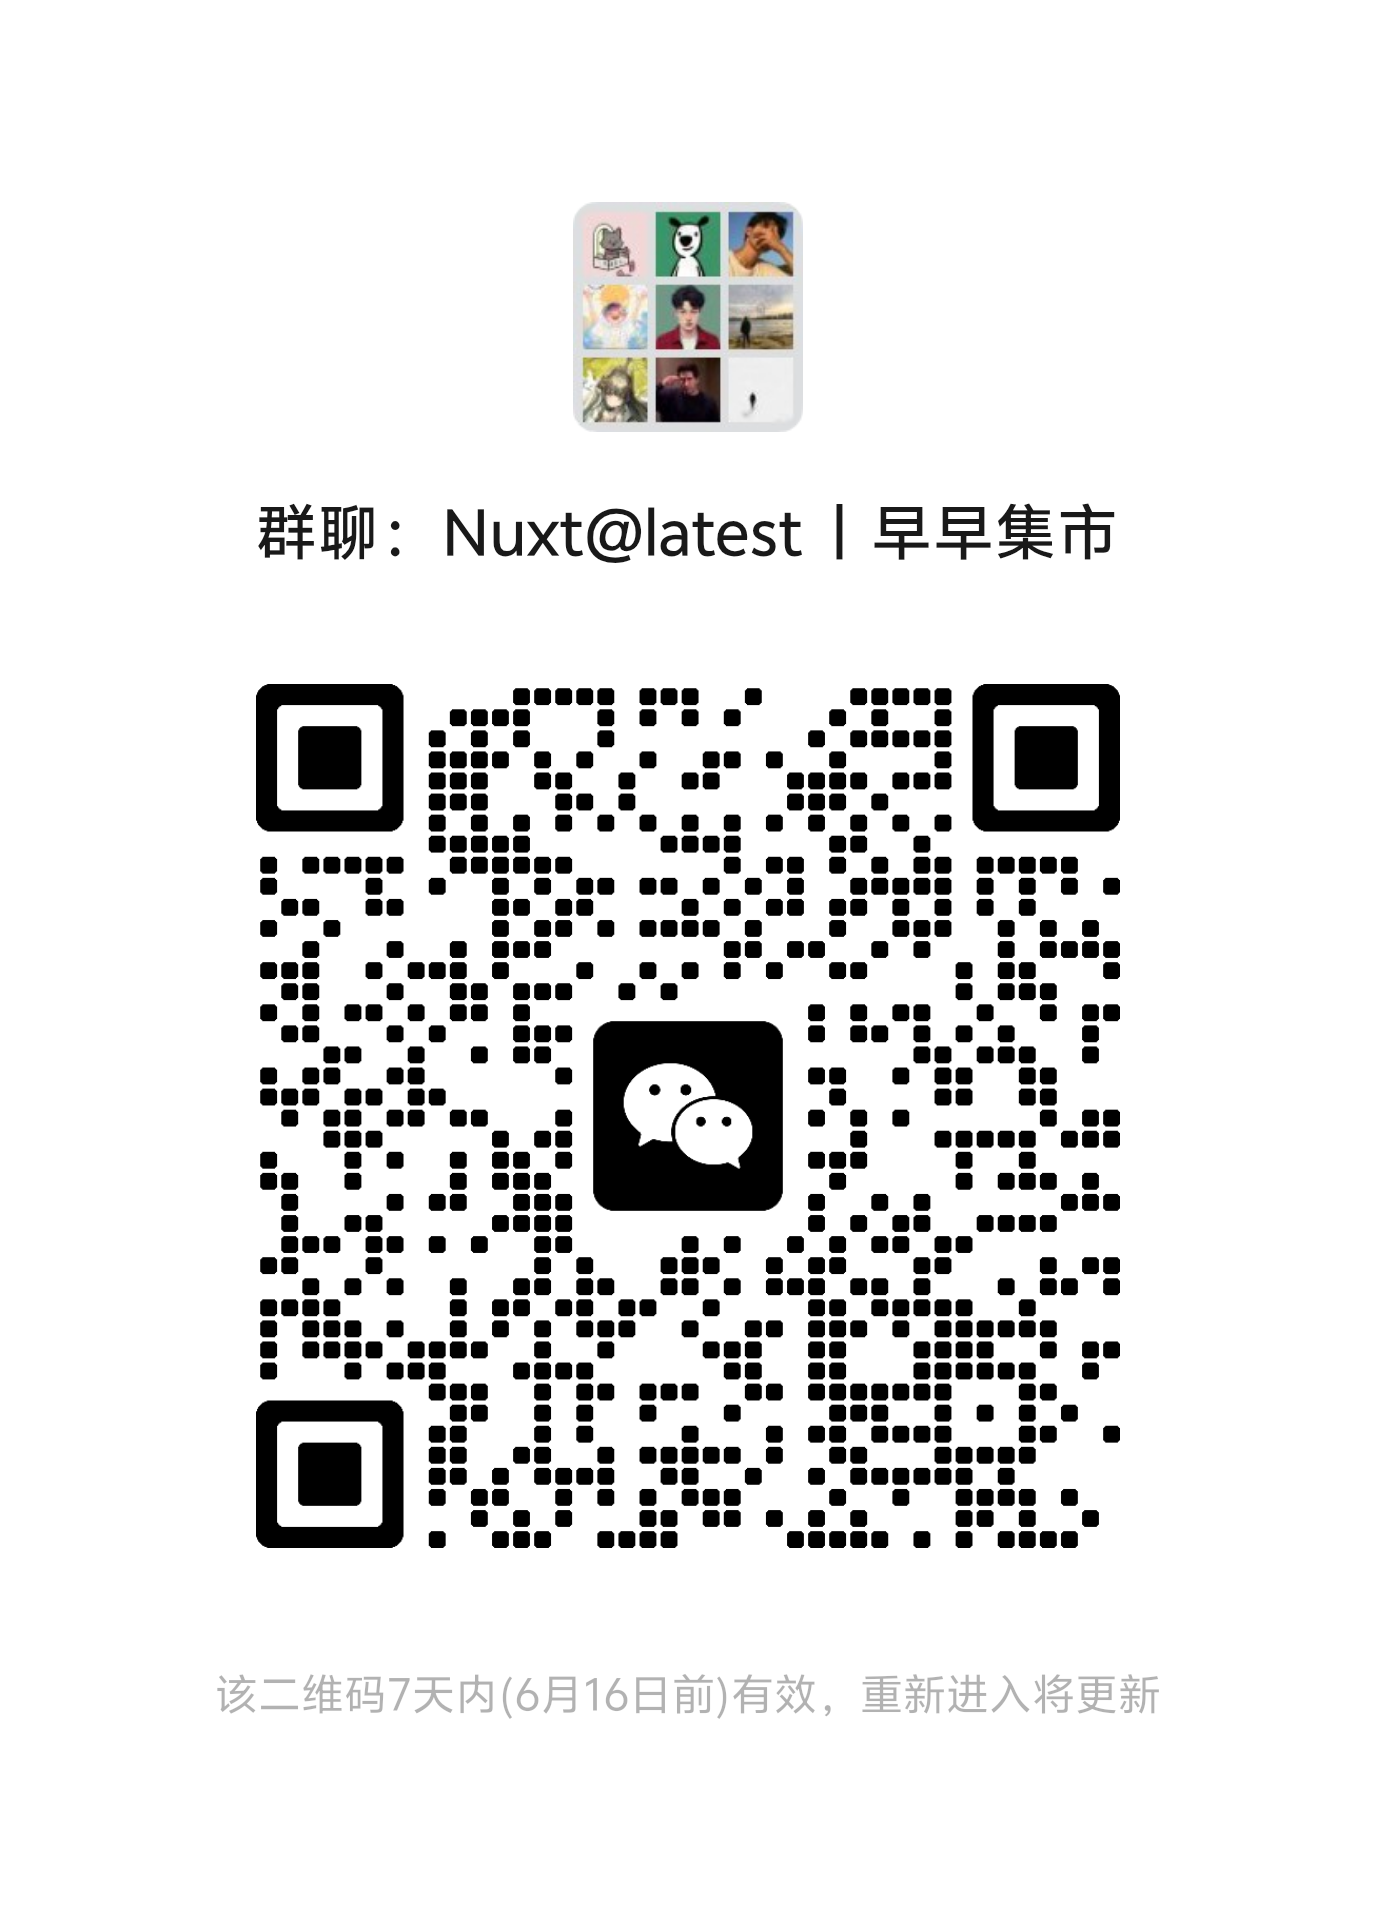
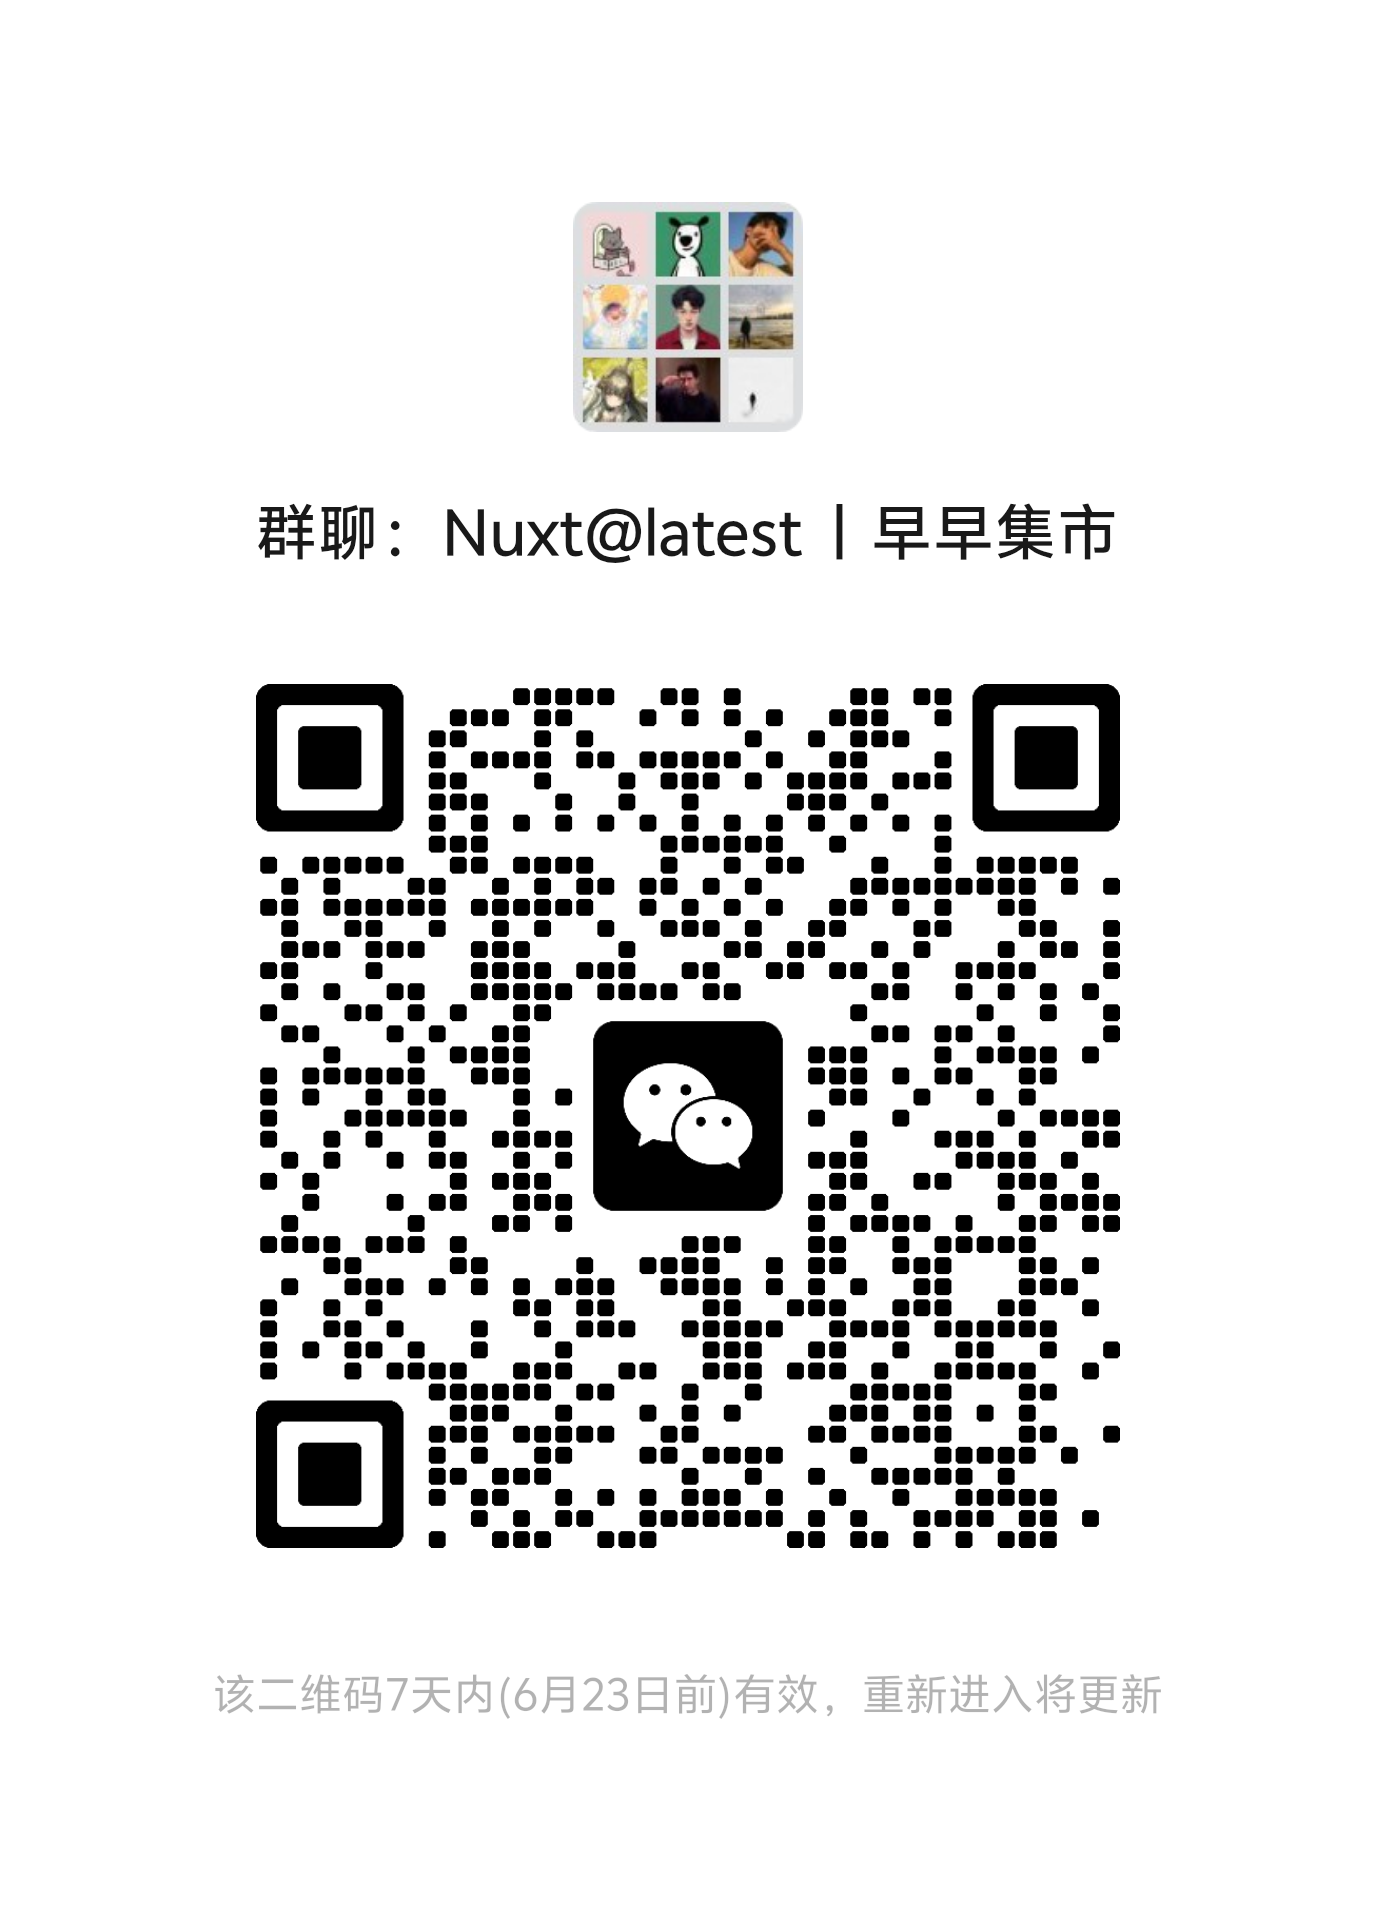
chore: 优化代码; 更新二维码

diff --git a/app/components/common/AppNavDrawer.vue b/app/components/common/AppNavDrawer.vue
@@ -44,11 +44,13 @@ const items = ref([
     <DrawerContent>
       <ul class="pt-4">
         <li v-for="item in items" :key="item.label">
-          <NuxtLink :to="item.route">
-            <Button variant="link">
-              {{ item.label }}
-            </Button>
-          </NuxtLink>
+          <DrawerClose>
+            <NuxtLink :to="item.route">
+              <Button variant="link">
+                {{ item.label }}
+              </Button>
+            </NuxtLink>
+          </DrawerClose>
         </li>
       </ul>
       <!-- <DrawerFooter class="flex flex-row justify-end">

diff --git a/app/composables/useMemos.ts b/app/composables/useMemos.ts
@@ -36,7 +36,7 @@ export default function useMemos() {
 
     if (content) {
       // const content = memoContent.value.replaceAll('`', '\\`')
-      const { data, error } = await $api.post<BlogMemoWithUser>('/api/v1/memo/create', {
+      const { data, error } = await $api.post<ApiResponse<BlogMemoWithUser>>('/api/v1/memo/create', {
         content,
         tags,
         user_id: userStore.user?.id,
